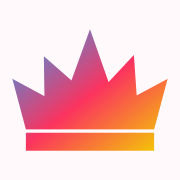
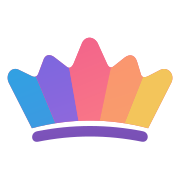
Refresh crown branding and social preview; keep relative operations default

diff --git a/lib/color-engine.ts b/lib/color-engine.ts
@@ -64,7 +64,6 @@ export interface Step {
   value: number;
   color: string;
   space: MixingSpace;
-  relative?: boolean;
 }
 export interface OutputSettings {
   kind: OutputKind;
@@ -289,14 +288,14 @@ export function runChain(input: string | Colord, steps: Step[]): Colord {
       switch (step.kind) {
         case "lightness":
           return value < 0
-            ? color.darken(-value / 100, { relative: step.relative ?? true })
-            : color.lighten(value / 100, { relative: step.relative ?? true });
+            ? color.darken(-value / 100, { relative: true })
+            : color.lighten(value / 100, { relative: true });
         case "saturation":
           return value < 0
             ? color.desaturate(-value / 100, {
-                relative: step.relative ?? true,
+                relative: true,
               })
-            : color.saturate(value / 100, { relative: step.relative ?? true });
+            : color.saturate(value / 100, { relative: true });
         case "hue":
           return color.rotate(value);
         case "mix":
@@ -320,7 +319,7 @@ export function runChain(input: string | Colord, steps: Step[]): Colord {
 /** Sample every selectable value, including clamped plateaus and LAB mixing. */
 export function getOperationGradient(
   input: string | Colord,
-  operation: Pick<Step, "kind" | "color" | "space" | "relative">,
+  operation: Pick<Step, "kind" | "color" | "space">,
 ): string {
   const { min, max, step } = OPERATION_META[operation.kind];
   const intervals = Math.max(1, (max - min) / (step || 1));
@@ -482,9 +481,9 @@ function stepCode(step: Step): string {
   const value = amount(step);
   switch (step.kind) {
     case "lightness":
-      return `.${value < 0 ? "darken" : "lighten"}(${numeric(Math.abs(value) / 100)}, { relative: ${step.relative ?? true} })`;
+      return `.${value < 0 ? "darken" : "lighten"}(${numeric(Math.abs(value) / 100)}, { relative: true })`;
     case "saturation":
-      return `.${value < 0 ? "desaturate" : "saturate"}(${numeric(Math.abs(value) / 100)}, { relative: ${step.relative ?? true} })`;
+      return `.${value < 0 ? "desaturate" : "saturate"}(${numeric(Math.abs(value) / 100)}, { relative: true })`;
     case "hue":
       return `.rotate(${numeric(value)})`;
     case "mix":

diff --git a/tests/color-engine.test.ts b/tests/color-engine.test.ts
@@ -142,25 +142,6 @@ test("lightness and saturation scale the current channel by default", () => {
   assert.equal(track[200], colord("hsl(30, 40%, 60%)").toHex());
 });
 
-test("relative can be disabled independently for each lightness and saturation block", () => {
-  const input = "hsl(30, 40%, 30%)";
-  for (const [kind, value, channel, expected] of [
-    ["lightness", 20, "l", 50],
-    ["lightness", -20, "l", 10],
-    ["saturation", 20, "s", 60],
-    ["saturation", -20, "s", 20],
-  ] as const) {
-    const operation = { ...step(kind, value), relative: false };
-    const result = runChain(input, [operation]);
-    assert.equal(result.toHsl()[channel], expected);
-    const code = generateCode(input, [operation], DEFAULT_OUTPUT);
-    assert.match(code, /relative: false/);
-    assert.equal(executeExample(code), result.toHex());
-    const stops = getOperationGradient(input, operation).match(/#[0-9a-f]+/g)!;
-    assert.equal(stops[value + 100], result.toHex());
-  }
-});
-
 test("all transform types and mixing spaces produce executable, matching examples", () => {
   for (const steps of [
     [step("mix", 37, "tomato", "rgb")],

diff --git a/components/ui.tsx b/components/ui.tsx
@@ -2,25 +2,19 @@
 
 import Link from "next/link";
 import { ArrowUpRight, Check, Copy, Github } from "lucide-react";
-import { useEffect, useId, useRef, useState, type ReactNode } from "react";
+import { useEffect, useRef, useState, type ReactNode } from "react";
 
 const REPOSITORY = "https://github.com/omgovich/colord";
-const CROWN =
-  "M28 24L52.5 45.5L69 0L85.5 46.9495L108 22.8624L110.5 58.789L138 44.0917L126 89H69H12L0 44.0917L28.5 59.5L28 24ZM126 108V92H12V108H126Z";
-
 export function Mark() {
-  const id = useId();
   return (
-    <svg className="shell-crown" viewBox="0 0 138 108" aria-hidden="true">
-      <defs>
-        <linearGradient id={id} x1="0" y1="0" x2="1" y2="1">
-          <stop offset="0" stopColor="#2aa0f4" />
-          <stop offset=".52" stopColor="#fb335f" />
-          <stop offset="1" stopColor="#f3d100" />
-        </linearGradient>
-      </defs>
-      <path d={CROWN} fill={`url(#${id})`} />
-    </svg>
+    <img
+      className="shell-crown"
+      src="/brand/colord-crown-h2.svg"
+      width={440}
+      height={280}
+      alt=""
+      aria-hidden="true"
+    />
   );
 }
 

diff --git a/components/playground.tsx b/components/playground.tsx
@@ -443,9 +443,8 @@ function AmountSlider({
         kind: step.kind,
         color: step.color,
         space: step.space,
-        relative: step.relative,
       }),
-    [before, step.kind, step.color, step.space, step.relative],
+    [before, step.kind, step.color, step.space],
   );
   const thumbColor = runChain(before, [step]).toHex();
   return (
@@ -551,16 +550,6 @@ function StepCard({
             <X size={16} />
           </button>
         </div>
-        {(step.kind === "lightness" || step.kind === "saturation") && (
-          <label className="relative-toggle">
-            <input
-              type="checkbox"
-              checked={step.relative ?? true}
-              onChange={(event) => onUpdate({ relative: event.target.checked })}
-            />
-            Relative
-          </label>
-        )}
         {step.kind === "mix" && (
           <div className="mix-parameters">
             <ParameterColor

diff --git a/app/layout.tsx b/app/layout.tsx
@@ -37,7 +37,7 @@ export const metadata: Metadata = {
     url: "https://colord.dev",
     images: [
       {
-        url: "/og.png",
+        url: "/og.png?v=2",
         width: 1200,
         height: 630,
         type: "image/png",
@@ -49,7 +49,7 @@ export const metadata: Metadata = {
     card: "summary_large_image",
     images: [
       {
-        url: "/og.png",
+        url: "/og.png?v=2",
         alt: "colord — Powerful color tools. Ridiculously small. 1.8 kB · Zero dependencies.",
       },
     ],

diff --git a/app/globals.css b/app/globals.css
@@ -734,22 +734,6 @@ svg {
   justify-content: center;
   position: relative;
 }
-.relative-toggle {
-  display: flex;
-  align-items: center;
-  gap: 8px;
-  align-self: flex-start;
-  min-height: 32px;
-  font-size: 13px;
-  cursor: pointer;
-}
-.relative-toggle input {
-  width: 17px;
-  height: 17px;
-  margin: 0;
-  accent-color: var(--material-ink);
-  cursor: pointer;
-}
 .operation-card {
   scroll-margin-block: 24px;
   width: 100%;

diff --git a/components/site-shell.css b/components/site-shell.css
@@ -42,8 +42,8 @@
   opacity: 0.82;
 }
 .shell-crown {
-  width: calc(var(--shell-brand-size) * 1.0733);
-  height: calc(var(--shell-brand-size) * 0.84);
+  width: calc(var(--shell-brand-size) * 1.32);
+  height: auto;
   display: block;
   flex-shrink: 0;
   overflow: visible;
